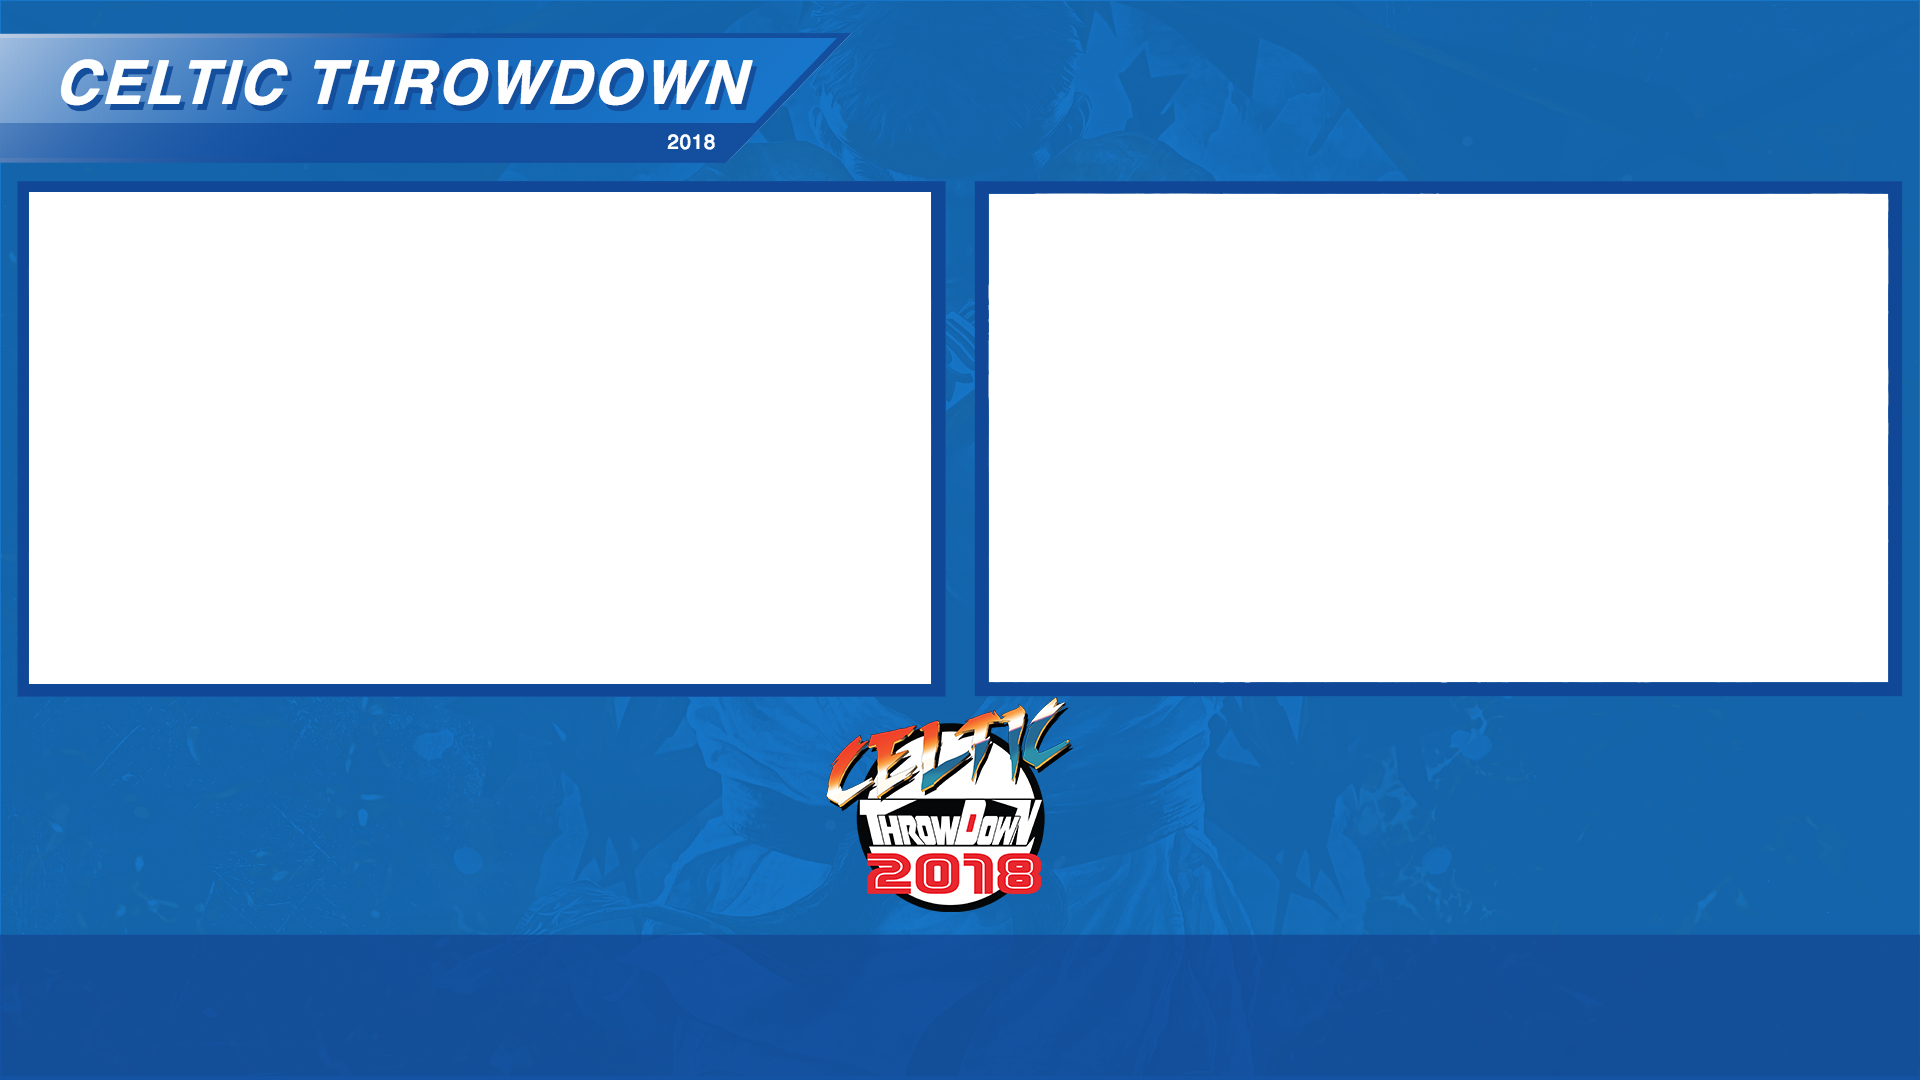
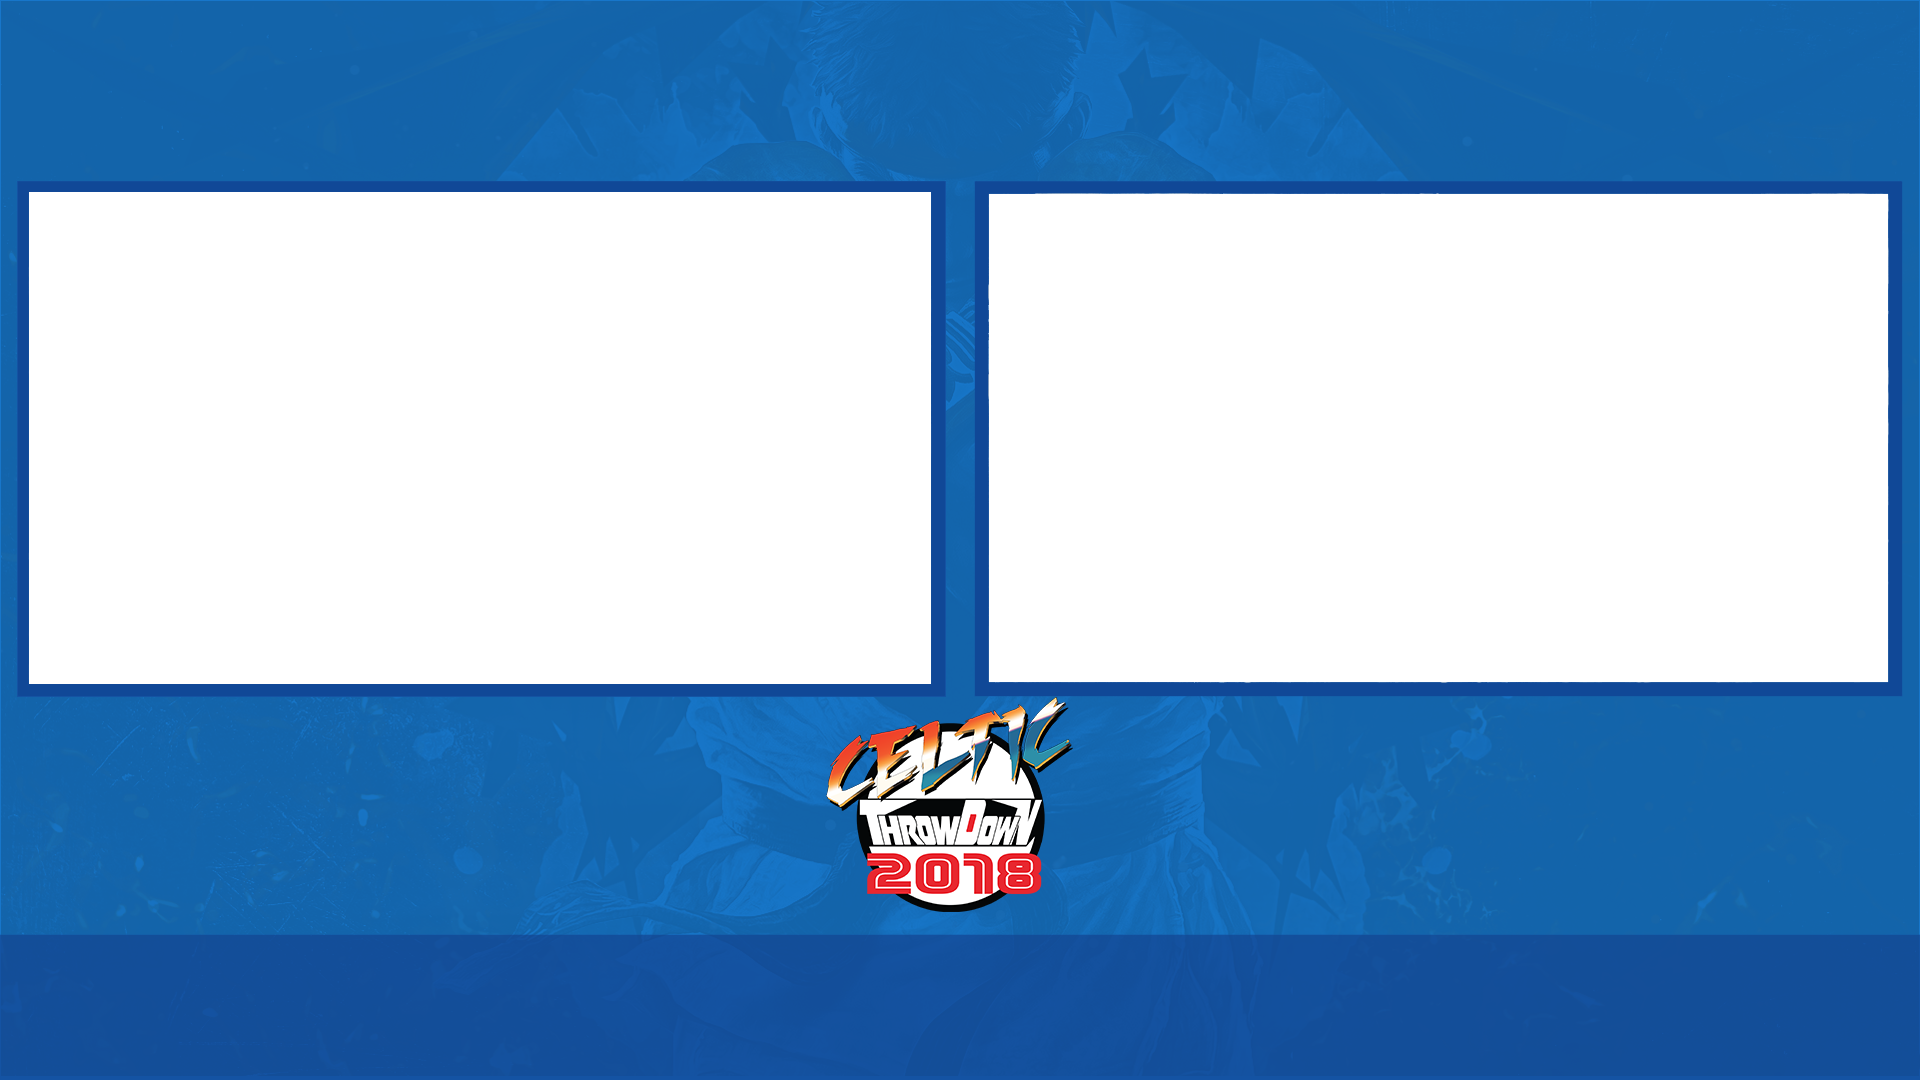
Dualscreen header

Changed region(s): [[0.0, 0.0306, 0.4375, 0.1528]]

diff --git a/assets/scripts/script_dual.js b/assets/scripts/script_dual.js
@@ -1,0 +1,73 @@
+const system = {
+    timeStamp: 0,
+    connect: function () {
+        return new Promise(function (resolve, reject) {
+            let xhr = new XMLHttpRequest();
+            xhr.overrideMimeType('text/xml');
+            xhr.open('GET', 'streamcontrol.xml?t=' + Date.now());
+            xhr.send();
+            xhr.onload = function () {
+                xmlDoc = xhr.responseXML;
+                let getValueFromTag = _.getValueFromTag;
+                let pName1 = getValueFromTag(xmlDoc, 'dDualHeading');
+                let pTwitter1 = getValueFromTag(xmlDoc, 'dDualText');
+                let timestamp = getValueFromTag(xmlDoc, 'timestamp');
+
+                resolve({ pName1, pTwitter1, timestamp })
+            }
+            xhr.onerror = function () {
+                reject(xhr.response);
+            };
+        })
+    },
+    update: function() {
+        system.connect().then((result)=> {
+            const { pName1, pTwitter1, timestamp } = result;
+
+            if (timestamp !== system.timeStamp) {
+                system.timeStamp = timestamp;
+                _.removeClass(_.$('.panelL'), 'animate_pan');
+
+                _.$('.panelL .name').innerHTML = pName1;
+                _.$('.panelL .twitter').innerHTML = pTwitter1;
+        
+        
+                setTimeout(function () {
+                    _.addClass(_.$('.panelL'), 'animate_pan');
+                }, 500)
+            }
+        });
+    }
+}
+
+const _ = {
+    $: function (el) {
+        return document.querySelectorAll(el)[0];
+    },
+    addClass: function (el, className) {
+        if (el.classList) {
+            el.classList.add(className);
+        } else {
+            el.className += ' ' + className;
+        }
+    },
+    removeClass: function (el, className) {
+        el.classList.remove(className);
+    },
+    getValueFromTag: function (xmlDoc, tag) {
+        if (xmlDoc.getElementsByTagName(tag).length != 0) {
+            if (xmlDoc.getElementsByTagName(tag)[0].childNodes.length == 0) {
+                return '';
+            } else {
+                return xmlDoc.getElementsByTagName(tag)[0].childNodes[0].nodeValue;
+            }
+        } else {
+            return '';
+        }
+    }
+}
+
+
+window.setInterval(function() {
+    system.update();
+}, 500);

diff --git a/assets/styles/news/animate.css b/assets/styles/news/animate.css
@@ -7,7 +7,7 @@
 
 @keyframes animate_panL {
     0%   { left: -875px;}
-    100% { left: 77px; }
+    100% { left: 10px; }
 }
 
 .panelR.animate_pan {
@@ -15,11 +15,6 @@
     animation-direction: normal;
     animation-timing-function: ease-out;
     animation-fill-mode: forwards;
-}
-
-@keyframes animate_panR {
-    0%   { right: -875px;}
-    100% { right: 77px; }
 }
 
 .panelL.animate_pan .footer {
@@ -35,18 +30,6 @@
     100% { left: 0; }
 }
 
-.panelR.animate_pan .footer {
-    animation: animate_footerR .35s;
-    animation-delay: .20s;
-    animation-direction: normal;
-    animation-timing-function: ease-out;
-    animation-fill-mode: forwards;
-}
-
-@keyframes animate_footerR {
-    0%   { right: -875px; }
-    100% { right: 0; }
-}
 
 .animate_pan .footer .twitter {
     animation: animate_twitter .20s;
@@ -74,41 +57,4 @@
     100% { left: 0; opacity: 1; }
 }
 
-.panelR.animate_pan .name {
-    animation: animate_nameR .10s;
-    animation-delay: .25s;
-    animation-direction: normal;
-    animation-timing-function: ease-out;
-    animation-fill-mode: forwards;
-}
 
-@keyframes animate_nameR {
-    0%   { right: -875px; opacity: 0; }
-    100% { right: 0; opacity: 1; }
-}
-
-.triangle.animate_triangle{
-    animation: animate_triangle .10s;
-    animation-delay: .25s;
-    animation-direction: normal;
-    animation-timing-function: ease-out;
-    animation-fill-mode: forwards;
-}
-
-@keyframes animate_triangle {
-    0%   { bottom:0; opacity: 0; }
-    100% { bottom: 200px; opacity: 1; }
-}
-
-.logo.animate_logo{
-    animation: animate_logo .30s;
-    animation-delay: .4s;
-    animation-direction: normal;
-    animation-timing-function: ease-out;
-    animation-fill-mode: forwards;
-}
-
-@keyframes animate_logo {
-    0%   {  transform: scale(0); opacity: 0; }
-    100% {  transform: scale(.5); opacity: 1; }
-}

diff --git a/dualscreen.html b/dualscreen.html
@@ -4,6 +4,8 @@
     <meta charset="utf-8">
     <title>Celtic Throwdown</title>
     <link rel="stylesheet" href="assets/styles/reset.css">
+    <link rel="stylesheet" href="assets/styles/news/styles.css">
+    <link rel="stylesheet" href="assets/styles/news/animate.css">    
     <style>
         html, body {
             background: url('./assets/images/dualscreen.png') no-repeat;
@@ -14,6 +16,16 @@
             font-family: Helvetica;
         }   
 
+
+        .panelL {
+            top: 23px;
+            background: linear-gradient(to left, rgba(20,79,159,1) 0%, rgba(20,79,159,1) 40%, rgba(20,79,159,0.05) 100%);
+        }
+        
+        .name {
+            font-size: 66px;
+        }
+        
         .sponsors {
             background: url('./assets/images/sponsors.png') no-repeat;
             height: 124px;
@@ -55,5 +67,16 @@
 <body>
     <div class="sponsors strip"></div>
     <div class="sponsors strip2"></div>
+
+
+<div class="panel panelL">
+    <span class="text name">CELTIC THROWDOWN</span>
+    <div class="footer">
+        <span class="text twitter">2018</span>
+    </div>        
+</div>
+
+<script src="assets/scripts/script_dual.js" type="text/javascript"></script>
+
 </body>
 </html>

diff --git a/assets/styles/score/animation.css b/assets/styles/score/animation.css
@@ -10,7 +10,6 @@
     100% {  width: 750px; opacity: 1;}
 }
 
-
 .panel.animate_pan::after {
     animation: animate_pan_after .45s;
     animation-delay: .70s;
